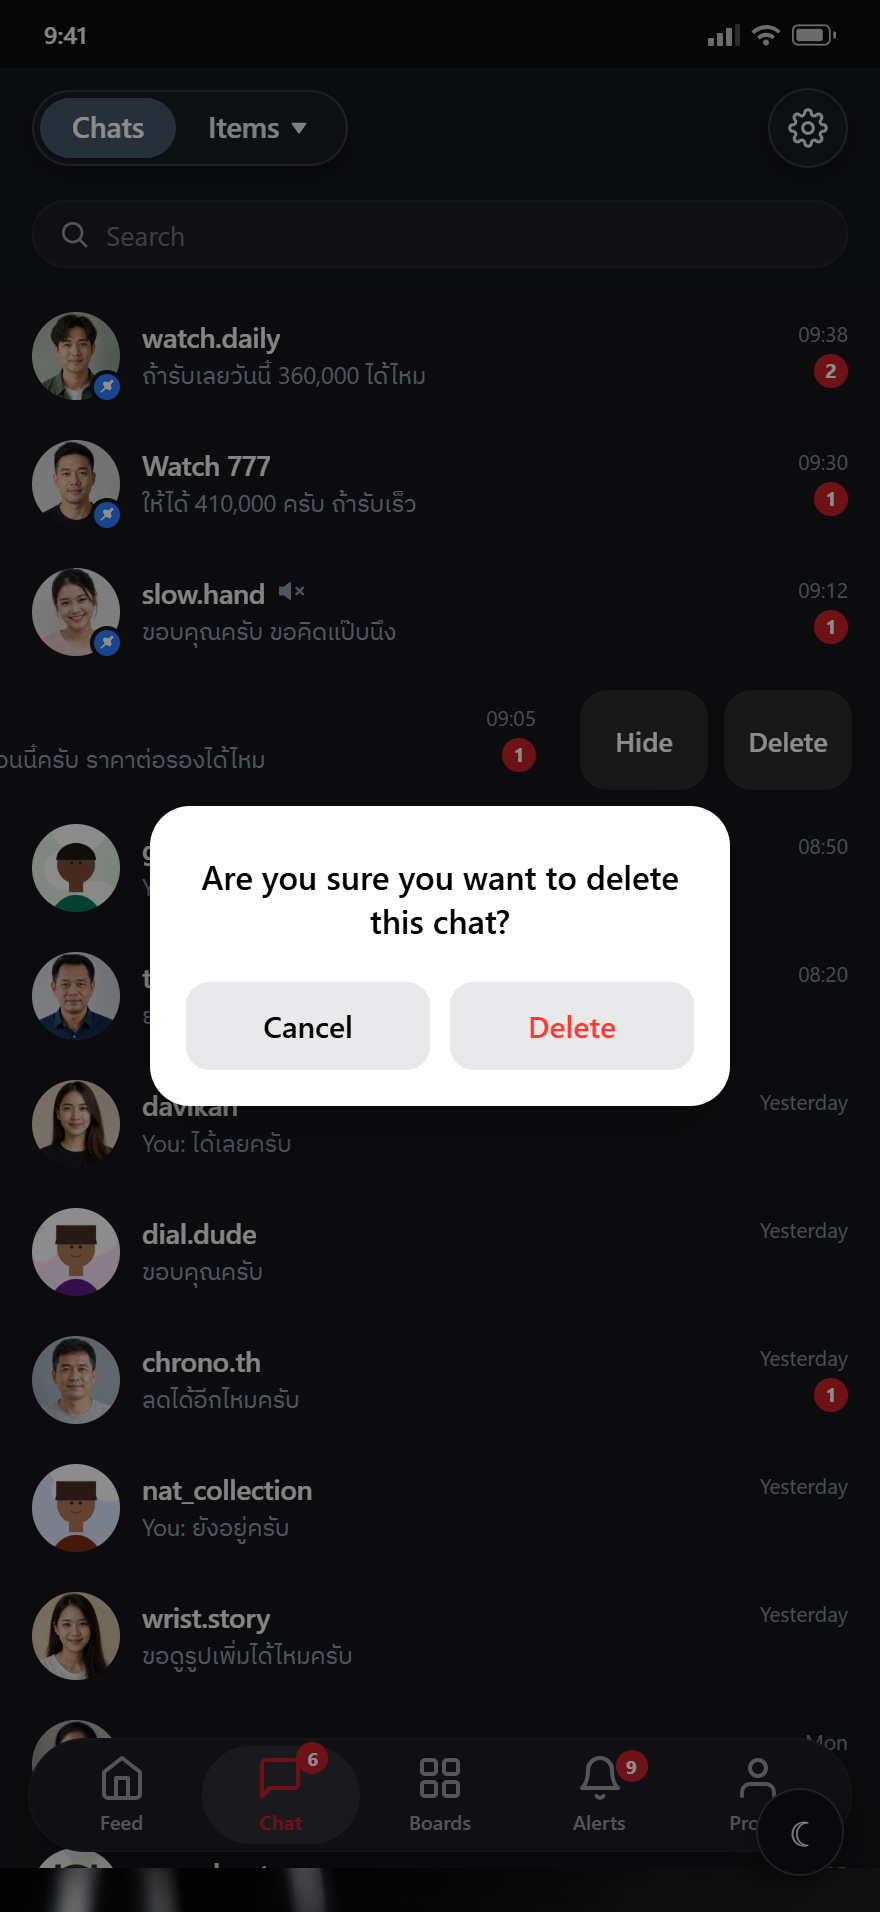
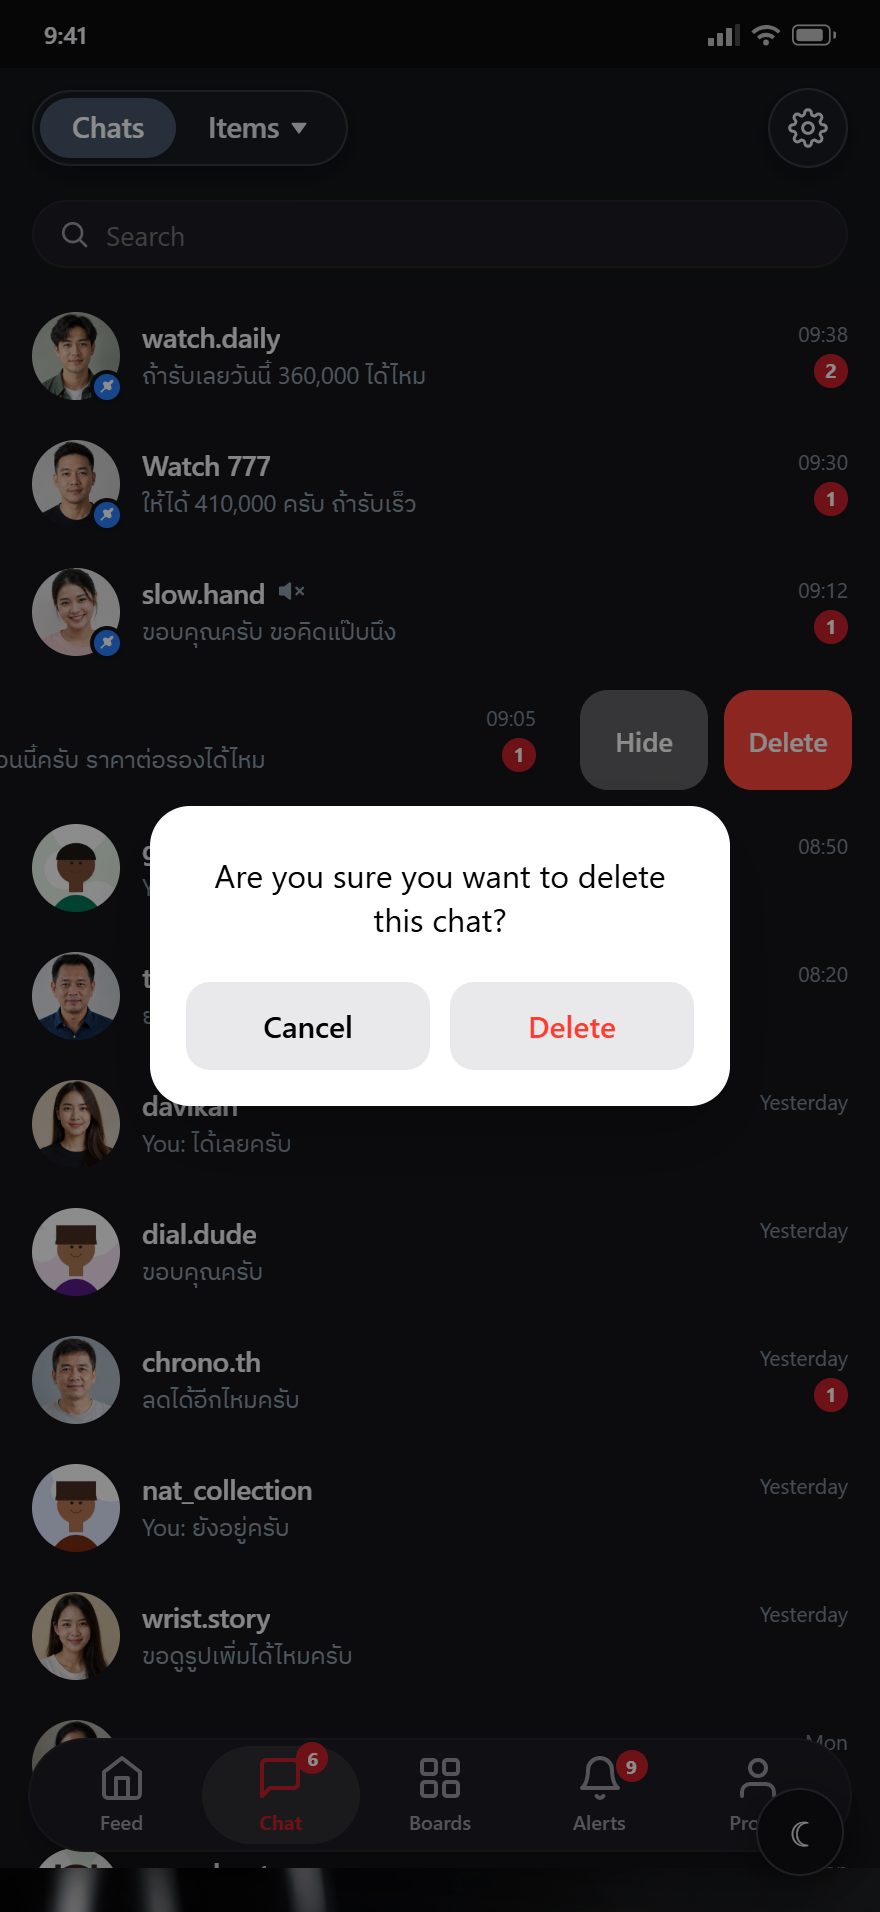
style(chat): update delete button color, modal font weight, and green button shades per LINE specs

Changed region(s): [[0.2455, 0.3394, 0.9818, 0.4937]]

diff --git a/Prototypes/fo-flow/index.html b/Prototypes/fo-flow/index.html
@@ -3594,15 +3594,19 @@
   .ch-row-wrap.revealed-left .ch-act-left { opacity:1; pointer-events:auto; }
   .ch-row-wrap.revealed-right .ch-act-right { opacity:1; pointer-events:auto; }
   
-  .ch-act-cir { width:46px; height:46px; border-radius:50%; background:#06c755; border:none; outline:none; color:#ffffff; display:inline-flex; align-items:center; justify-content:center; cursor:pointer; transition:transform .12s, background .15s; box-shadow:0 1px 3px rgba(0,0,0,.15); flex-shrink:0; padding:0; -webkit-tap-highlight-color:transparent; }
+  .ch-act-cir { width:46px; height:46px; border-radius:50%; border:none; outline:none; color:#ffffff; display:inline-flex; align-items:center; justify-content:center; cursor:pointer; transition:transform .12s, filter .15s; box-shadow:0 1px 3px rgba(0,0,0,.15); flex-shrink:0; padding:0; -webkit-tap-highlight-color:transparent; }
   .ch-act-cir:focus, .ch-act-cir:focus-visible { outline:none; }
-  .ch-act-cir:active { transform:scale(.92); background:#05b34c; }
+  .ch-act-cir:active { transform:scale(.92); filter:brightness(.92); }
+  .ch-act-cir.ch-act-pin { background:#2ec872; }
+  .ch-act-cir.ch-act-mute { background:#06c755; }
   
-  .ch-act-rect { width:64px; height:50px; border-radius:14px; border:none; outline:none; font:inherit; font-size:13.5px; font-weight:500; color:#111111; background:#e9e9eb; display:inline-flex; align-items:center; justify-content:center; cursor:pointer; transition:transform .12s, background .15s; flex-shrink:0; padding:0; box-sizing:border-box; -webkit-tap-highlight-color:transparent; }
+  .ch-act-rect { width:64px; height:50px; border-radius:14px; border:none; outline:none; font:inherit; font-size:13.5px; font-weight:500; color:#ffffff; display:inline-flex; align-items:center; justify-content:center; cursor:pointer; transition:transform .12s, filter .15s; flex-shrink:0; padding:0; box-sizing:border-box; -webkit-tap-highlight-color:transparent; }
   .ch-act-rect:focus, .ch-act-rect:focus-visible { outline:none; }
-  .ch-act-rect:active { transform:scale(.94); background:#dedee0; }
-  .screen[data-theme="dark"] .ch-act-rect { background:#2c2c2e; color:#ffffff; }
-  .screen[data-theme="dark"] .ch-act-rect:active { background:#3a3a3c; }
+  .ch-act-rect:active { transform:scale(.94); filter:brightness(.92); }
+  .ch-act-hide { background:#a8a8ad; color:#ffffff; }
+  .screen[data-theme="dark"] .ch-act-hide { background:#636366; color:#ffffff; }
+  .ch-act-del { background:#ff334b; color:#ffffff; }
+  .screen[data-theme="dark"] .ch-act-del { background:#ff453a; color:#ffffff; }
   
   .ch-row-wrap .ch-row { position:relative; z-index:2; background:var(--surface); transition:transform .22s cubic-bezier(0.2, 0.9, 0.3, 1); width:100%; box-sizing:border-box; outline:none; border:none; -webkit-tap-highlight-color:transparent; }
   .ch-row-wrap .ch-row:focus, .ch-row-wrap .ch-row:focus-visible { outline:none; }
@@ -3624,7 +3628,7 @@
   .ch-modal-backdrop { position:fixed; inset:0; background:rgba(0,0,0,.45); z-index:9999; display:flex; align-items:center; justify-content:center; padding:24px; animation:chFadeIn .16s ease; -webkit-tap-highlight-color:transparent; }
   .ch-modal { background:#ffffff; border-radius:20px; width:100%; max-width:290px; padding:24px 18px 18px; box-shadow:0 16px 40px rgba(0,0,0,.26); text-align:center; animation:chPopIn .18s cubic-bezier(0.18, 0.89, 0.32, 1.15); box-sizing:border-box; }
   .screen[data-theme="dark"] .ch-modal { background:#25272c; }
-  .ch-modal-title { font-size:16.5px; font-weight:600; color:#000000; margin-bottom:20px; line-height:1.35; padding:0 4px; }
+  .ch-modal-title { font-size:16px; font-weight:400; color:#000000; margin-bottom:20px; line-height:1.35; padding:0 4px; }
   .screen[data-theme="dark"] .ch-modal-title { color:#ffffff; }
   .ch-modal-acts { display:flex; gap:10px; }
   .ch-modal-btn { flex:1; height:44px; border-radius:12px; font:inherit; font-size:15px; font-weight:600; border:none; cursor:pointer; display:inline-flex; align-items:center; justify-content:center; -webkit-tap-highlight-color:transparent; transition:opacity .12s, transform .1s; }
@@ -8559,6 +8563,7 @@ function chSend(scr) {
   const v = inp.value.trim(), t = chGet(room.dataset.tid), C = chatInit();
   if (!v || !t) return;
   if (pfIsBlocked(t.user) || t.blocked) return;
+  t.hidden = false;
   if (C.draft === t) { C.threads.unshift(t); C.draft = null; }
   else { const i = C.threads.indexOf(t); if (i > 0) { C.threads.splice(i, 1); C.threads.unshift(t); } }
   t.msgs.push({ f: "me", t: v, at: "09:41", day: "Today", read: false });
@@ -8579,6 +8584,8 @@ function chatQuickAsk(scr, post) {
         item: { id: post.id, cap: post.caption, price: post.price || "", photo: post.photos[0], owner: post.seller, pid: post.id } };
       C.draft = t;
     }
+  } else {
+    t.hidden = false;
   }
   scr.classList.remove("pv-open", "detail-open", "comments-open", "pm-open", "likes-open", "details-open");
   openSub(scr, "chatroom:" + t.id);
@@ -8645,7 +8652,10 @@ function openChatDeleteConfirm(t, scr) {
     close();
     const C = chatInit();
     const idx = C.threads.indexOf(t);
-    if (idx >= 0) C.threads.splice(idx, 1);
+    if (idx >= 0) {
+      t.msgs = [];
+      C.threads.splice(idx, 1);
+    }
     scrToast(scr, "ลบแชทเรียบร้อยแล้ว");
     if (scr._subStack && scr._subStack.length > 0) {
       while (scr._subStack.length > 0 && (scr._subStack[scr._subStack.length - 1].startsWith("chatroom:") || scr._subStack[scr._subStack.length - 1].startsWith("chmenu:") || scr._subStack[scr._subStack.length - 1].startsWith("chsettings:"))) {
